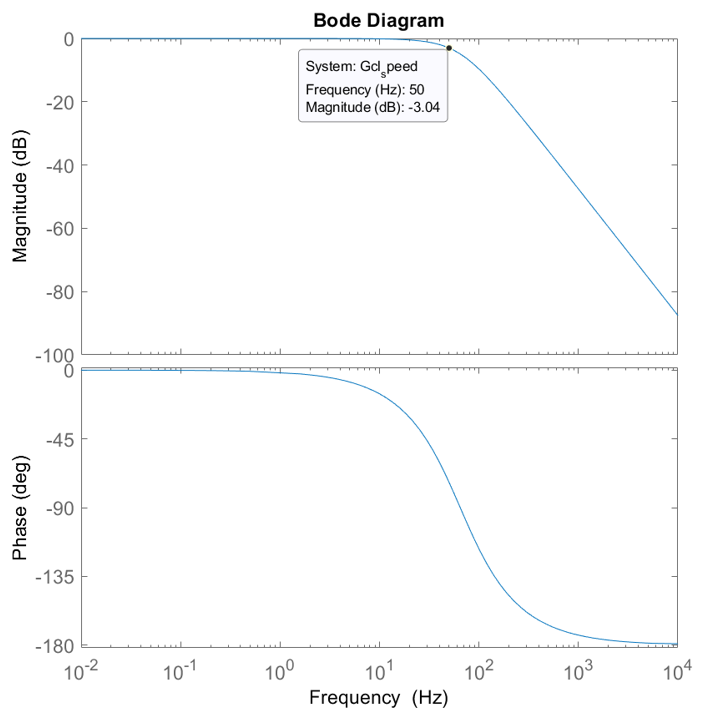
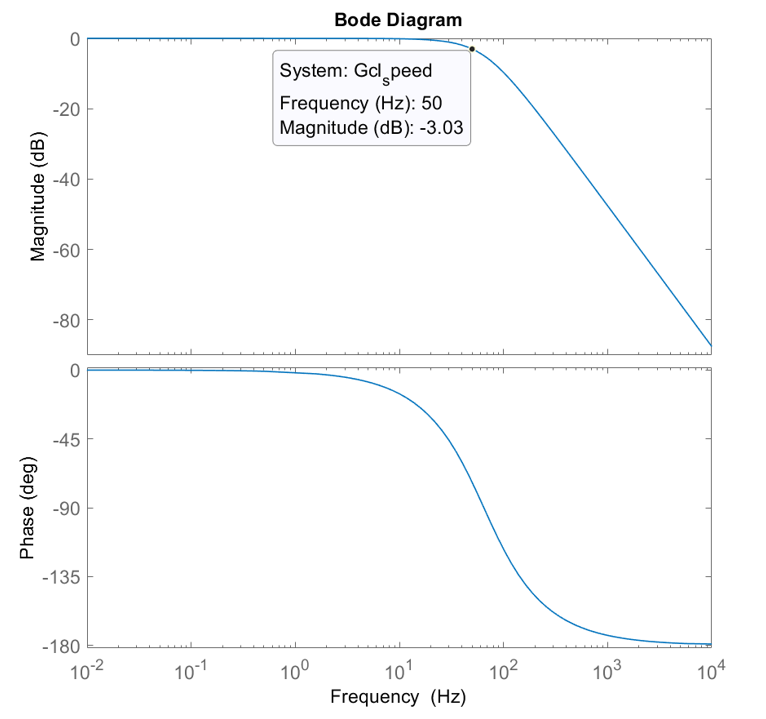
modified graphs overleaf

diff --git a/Simulations/2019_05_11 FOC/Motor_parameters_project.m b/Simulations/2019_05_11 FOC/Motor_parameters_project.m
@@ -106,11 +106,6 @@ syms phi_w
 eqn_w = (1/(2*phi_w*Tc))*sqrt((1-2*phi_w^2)+sqrt(4*phi_w^4-4*phi_w^2+2)) == 2*pi*50;
 sol_phi_w = solve(eqn_w, phi_w)
 
-alldatacursors = findall(gcf,'type','hggroup')
-set(alldatacursors,'FontSize',12)
-set(alldatacursors,'FontName','Times')
-set(alldatacursors, 'FontWeight', 'bold')
-
 figure(2)
 margin(G_s)
 
